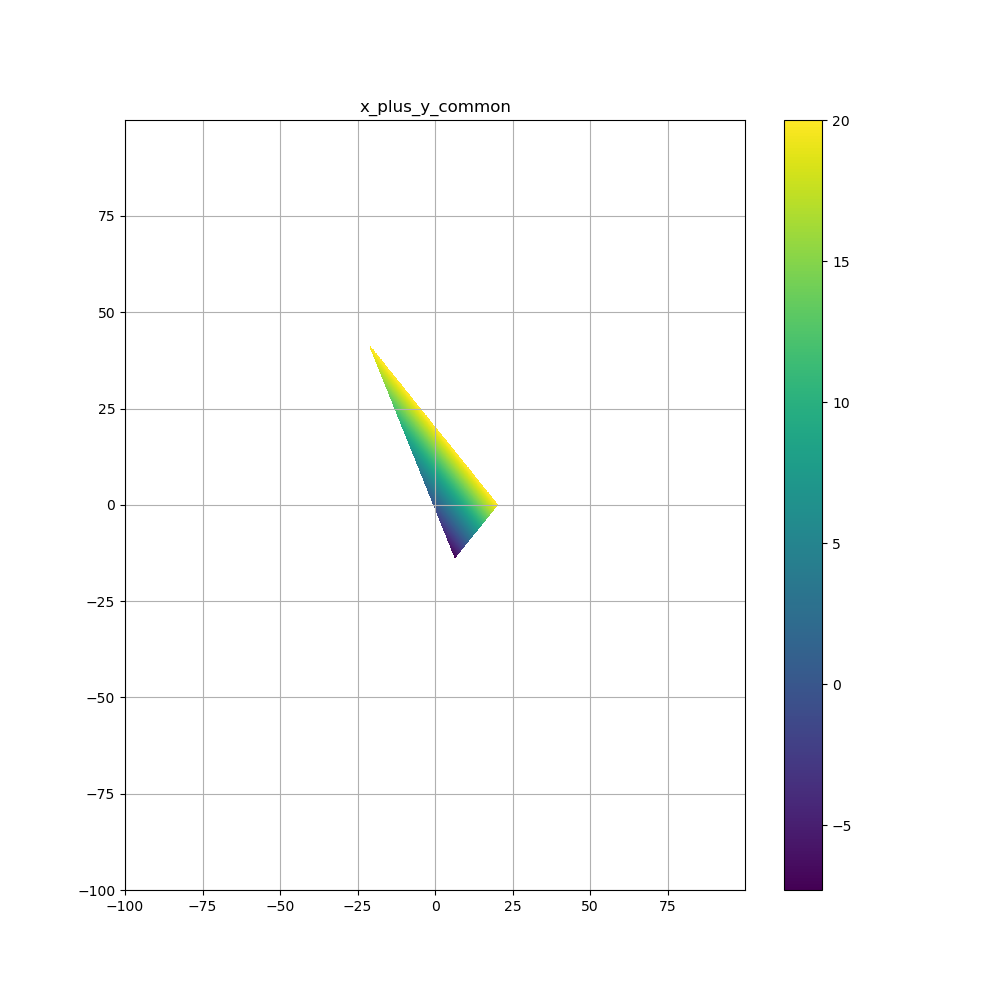
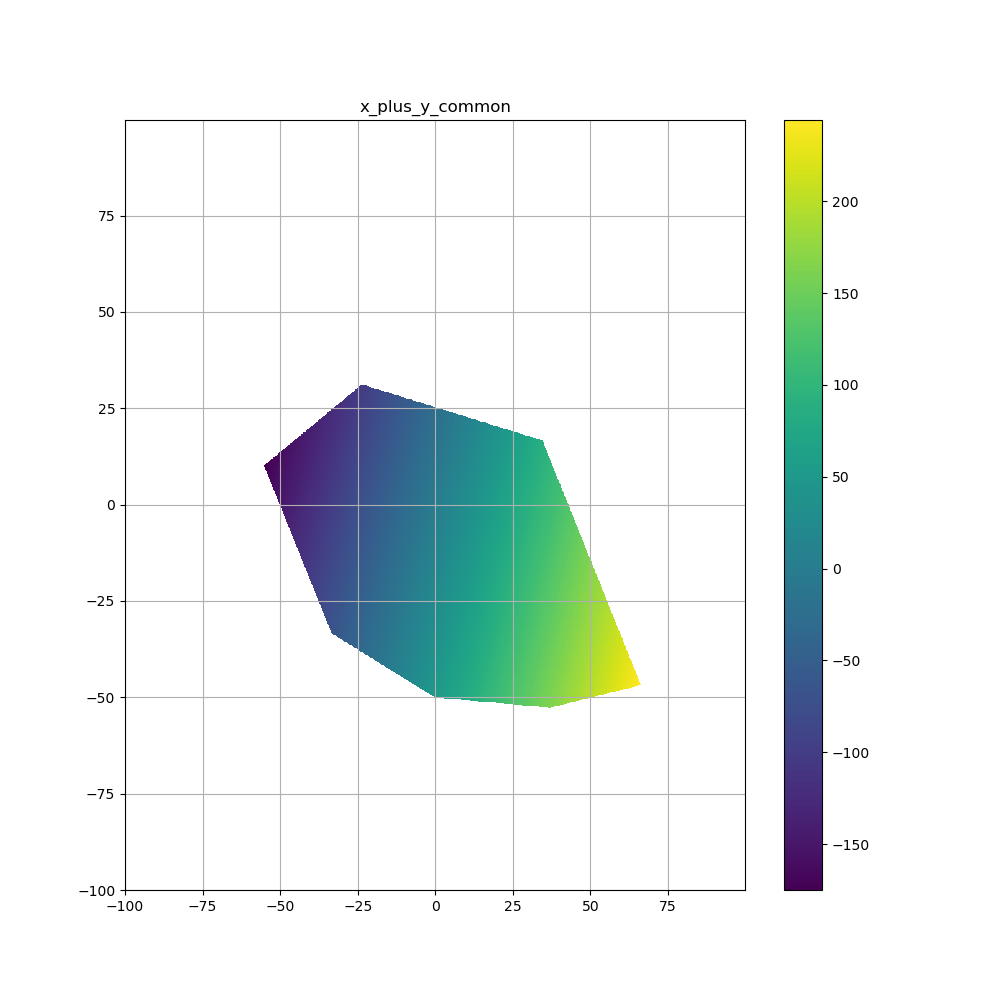
visualization of simplex algorithm

diff --git a/lab1_linear_programming/main.py b/lab1_linear_programming/main.py
@@ -1,6 +1,6 @@
 from lab1_linear_programming.data_parser import *
 from lab1_linear_programming.interface import *
-from lab1_linear_programming.plot_function import visualize_func_in_2d_area
+from lab1_linear_programming.plot_function import *
 from lab1_linear_programming.linear_programming import *
 
 def viktor_main():
@@ -72,7 +72,21 @@ def viktor_main():
         b=[-10.0, -20.0, 1],
         c_objective=[-1.0, -4.0],
         M1_b_ineq=[0, 1, 2],
-        N1_x_positive=[0, 1]
+        N1_x_positive=[0, 1],
+        obj_direction=ObjectiveDirection.MAX
+    )
+    lp_problem_2d = LPProblem(
+        x_dim=2,
+        A=[[-1, -4],
+           [-4, -2],
+           [-1, 5],
+           [1, 14],
+           [1, 2],
+           [2, 1],
+           [2, -3]],
+        b=[-100, -170, -300, -700, -100, -100, -140],
+        c_objective=[3, -1],
+        M1_b_ineq=[0, 1, 2, 3, 4, 5, 6]
     )
     res_scipy, _ = lp_problem_2d.solve(mode='scipy')
     res_bruteforce, path_bruteforce = lp_problem_2d.solve(mode='bruteforce')
@@ -85,26 +99,30 @@ def mikhail_main():
 
     lp_problem_2d = LPProblem(
         x_dim=2,
-        A=[[-1.0, -1.0],
-           [-1.0, 1.0],
-           [2.0, 1.0]],
-        b=[-20.0, -20.0, -1.0],
-        c_objective=[1.0, 1.0],
-        M1_b_ineq=[0, 1, 2],
-        N1_x_positive=None
+        A=[[-1, -4],
+           [-4, -2],
+           [-1, 5],
+           [1, 14],
+           [1, 2],
+           [2, 1],
+           [2, -3]],
+        b=[-100, -170, -300, -700, -100, -100, -140],
+        c_objective=[3, -1],
+        M1_b_ineq=[0, 1, 2, 3, 4, 5, 6],
+        obj_direction=ObjectiveDirection.MAX
     )
-    x, x_path = lp_problem_2d.solve(mode='bruteforce')
-    return
+    res_scipy, _ = lp_problem_2d.solve(mode='scipy')
+    res_bruteforce, path_bruteforce = lp_problem_2d.solve(mode='bruteforce')
+    res_simplex, path_simplex = lp_problem_2d.solve(mode='simplex')
 
-    visualize_func_in_2d_area(lp_problem_2d.objective_func(),
+    fig, ax = visualize_func_in_2d_area(lp_problem_2d.objective_func(),
                               lp_problem_2d.optimization_area_indicator(),
                               title='x_plus_y_common')
+    draw_points(fig, ax, path_bruteforce, title='bruteforce solution', style_points='yo')
+    draw_points(fig, ax, path_simplex, title='simplex algorithm solution', style_points='mx',
+                use_arrow=True, color_arrow='magenta')
+    plt.show()
 
-    dual_problem = lp_problem_2d.from_common_to_dual()
-    dual_dual_problem = dual_problem.from_common_to_dual()
-    visualize_func_in_2d_area(dual_dual_problem.objective_func(),
-                              dual_dual_problem.optimization_area_indicator(),
-                              title='x_plus_y_dual_dual')
 
 # def danil_main():
 #     values = Interface().get_data()
@@ -117,7 +135,7 @@ def mikhail_main():
 
 if __name__ == '__main__':
 
-    viktor_main()
-    # mikhail_main()
+    # viktor_main()
+    mikhail_main()
 
     print('first lab')

diff --git a/lab1_linear_programming/linear_programming.py b/lab1_linear_programming/linear_programming.py
@@ -42,8 +42,6 @@ class LPProblem:
         self.N1_x_positive = list(N1_x_positive)
         self.N2_x_any_sign = list(set(range(x_dim)) - set(N1_x_positive))
 
-        self.dual_problem = self.__from_common_to_dual()
-
     def __A_b_equality_part(self):
         if len(self.M2_b_eq) == 0:
             return None, None
@@ -179,7 +177,7 @@ class LPProblem:
 
             x = np.zeros(self.x_dim)
             x[list(comb)] = x_ls
-            solutions_potential.append((x, self.obj_direction*self.c_objective @ x))
+            solutions_potential.append((x, int(self.obj_direction)*self.c_objective @ x))
 
         if len(solutions_potential) == 0:
             return None, []
@@ -204,12 +202,12 @@ class LPProblem:
             simplex_alg = SimplexAlgorithm(
                 A=lp_canonical.A,
                 b=lp_canonical.b,
-                c=lp_canonical.c_objective * lp_canonical.obj_direction
+                c=lp_canonical.c_objective * int(lp_canonical.obj_direction)
             )
             x, x_path = simplex_alg.solve()
         elif mode == self.SolvingMethod.SCIPY:
             res = linprog(method='simplex', A_eq=lp_canonical.A, b_eq=lp_canonical.b,
-                          c=lp_canonical.c_objective * lp_canonical.obj_direction)
+                          c=lp_canonical.c_objective * int(lp_canonical.obj_direction))
             x = res.x
 
         def transform_canonical_solution(x):

diff --git a/lab1_linear_programming/plot_function.py b/lab1_linear_programming/plot_function.py
@@ -5,7 +5,7 @@ PATH_TO_PLOTS = 'plots/'
 
 
 def visualize_func_in_2d_area(func, area_func_indicator=lambda x, eps: True, title ='',
-                              range_x=(-100, 100), range_y=(-100, 100), step=0.1, eps=0.0001):
+                              range_x=(-100, 100), range_y=(-100, 100), step=0.2, eps=0.0001):
 
     def func_on_area_2d(x, y):
         if area_func_indicator([x, y], eps):
@@ -27,4 +27,27 @@ def visualize_func_in_2d_area(func, area_func_indicator=lambda x, eps: True, tit
     fig.colorbar(c)
     ax.set_title(title)
     plt.savefig(f'{PATH_TO_PLOTS}{title}')
-    plt.show()
+    # plt.show()
+
+    return fig, ax
+
+
+def draw_points(fig, ax, points,
+                title='', style_points='yo',
+                use_arrow=False, color_arrow='magenta'):
+    points = list(reversed(points))
+    points = np.array(points)
+    x_points = points[:, 0]
+    y_points = points[:, 1]
+
+    if use_arrow:
+        for i in range(points.shape[0]-1):
+            x_start, y_start = points[i, 0], points[i, 1]
+            x_delta, y_delta = points[i+1, 0] - x_start, points[i+1, 1] - y_start
+
+            ax.arrow(x_start, y_start, x_delta, y_delta,
+                     length_includes_head=True, width=1, alpha=1, color=color_arrow)
+    ax.plot(x_points, y_points, style_points, markersize=10)
+
+    ax.set_title(title)
+    plt.savefig(f'{PATH_TO_PLOTS}{title}')

diff --git a/lab1_linear_programming/simplex_algorithm.py b/lab1_linear_programming/simplex_algorithm.py
@@ -2,6 +2,7 @@ import numpy as np
 import copy
 import sys
 
+TOLERANCE_POWER = 15
 
 class SimplexAlgorithm:
 
@@ -17,6 +18,9 @@ class SimplexAlgorithm:
 
         if not ignore_phase1 and not self.__is_canonical_tableau():
             self.__phase1(idx_I_rows_exist)
+
+    def __round_small_values(self):
+        self.tableau = self.tableau.round(TOLERANCE_POWER)
 
     def __construct_simple_tableau(self, A, b, c):
         A, b, c = copy.deepcopy(A), copy.deepcopy(b), copy.deepcopy(c)
@@ -38,8 +42,10 @@ class SimplexAlgorithm:
 
     def __find_basic_variables(self, do_division=False):
         # columns which have only one non-zero element
+        self.__round_small_values()
         col_idx_nonzero = []
         for col in range(1, self.tableau.shape[1] - 1):
+            shit = self.tableau[:, col]
             nonzero_idx = list(self.tableau[:, col].nonzero()[0])
             if len(nonzero_idx) == 1 and \
                     self.tableau[nonzero_idx[0], col] * self.tableau[nonzero_idx[0], -1] >= 0:
